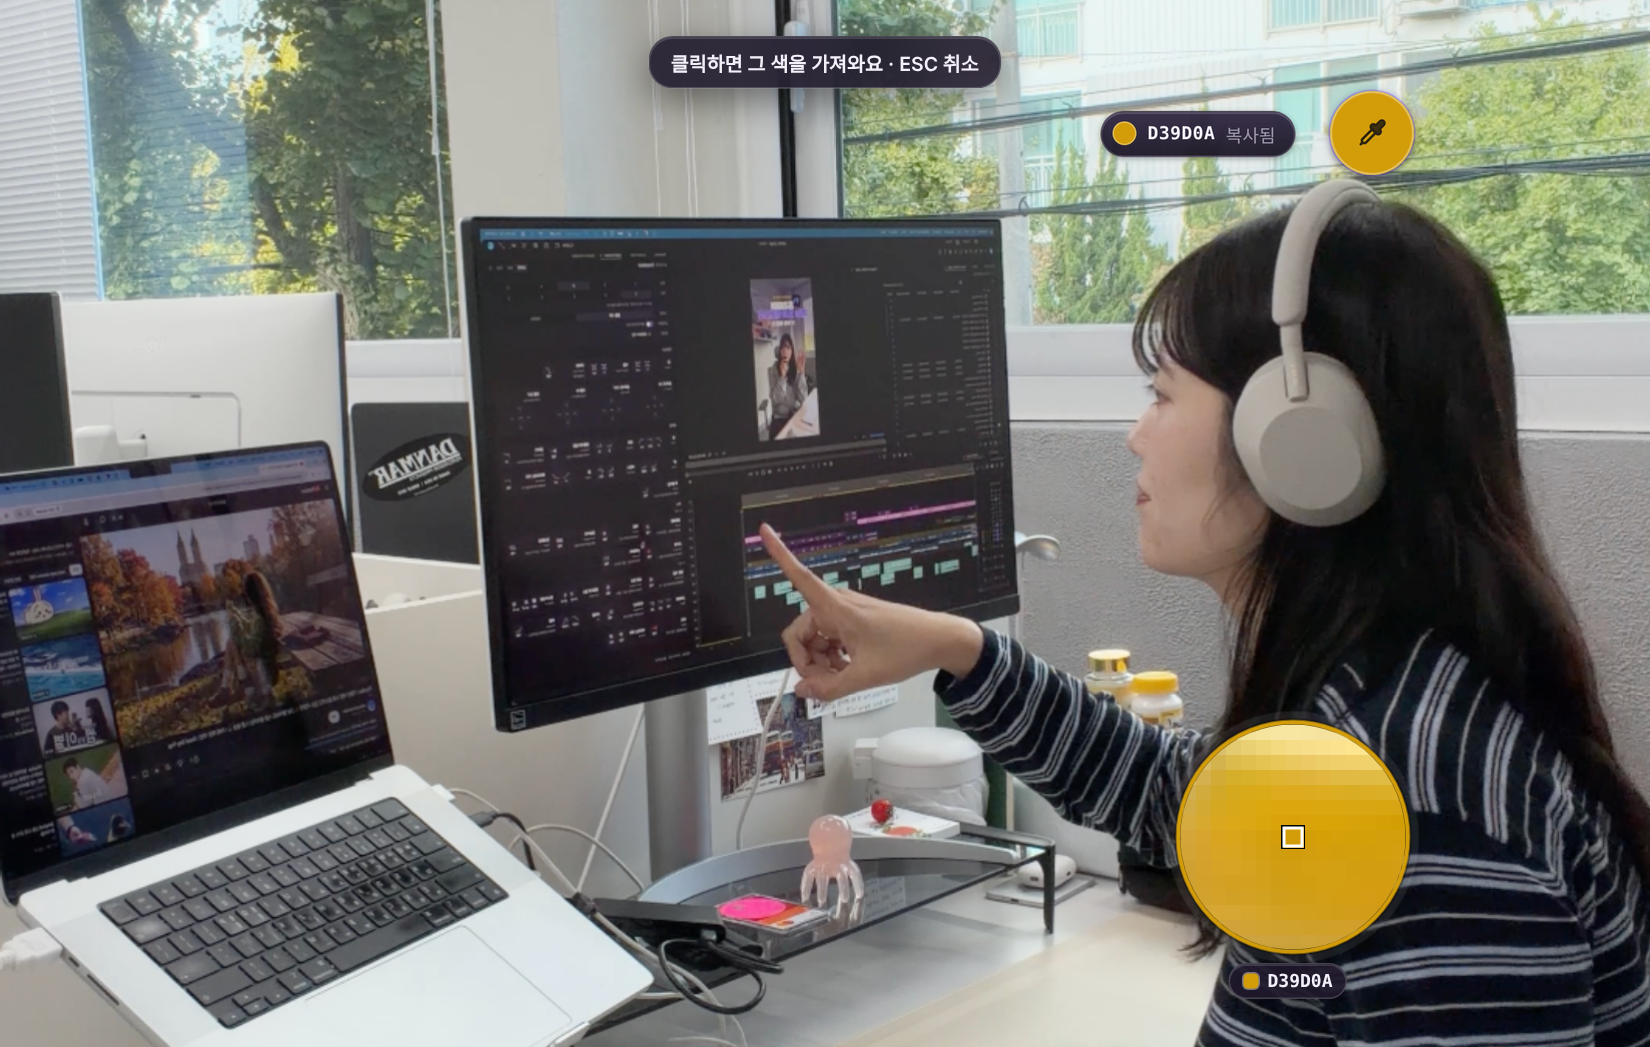
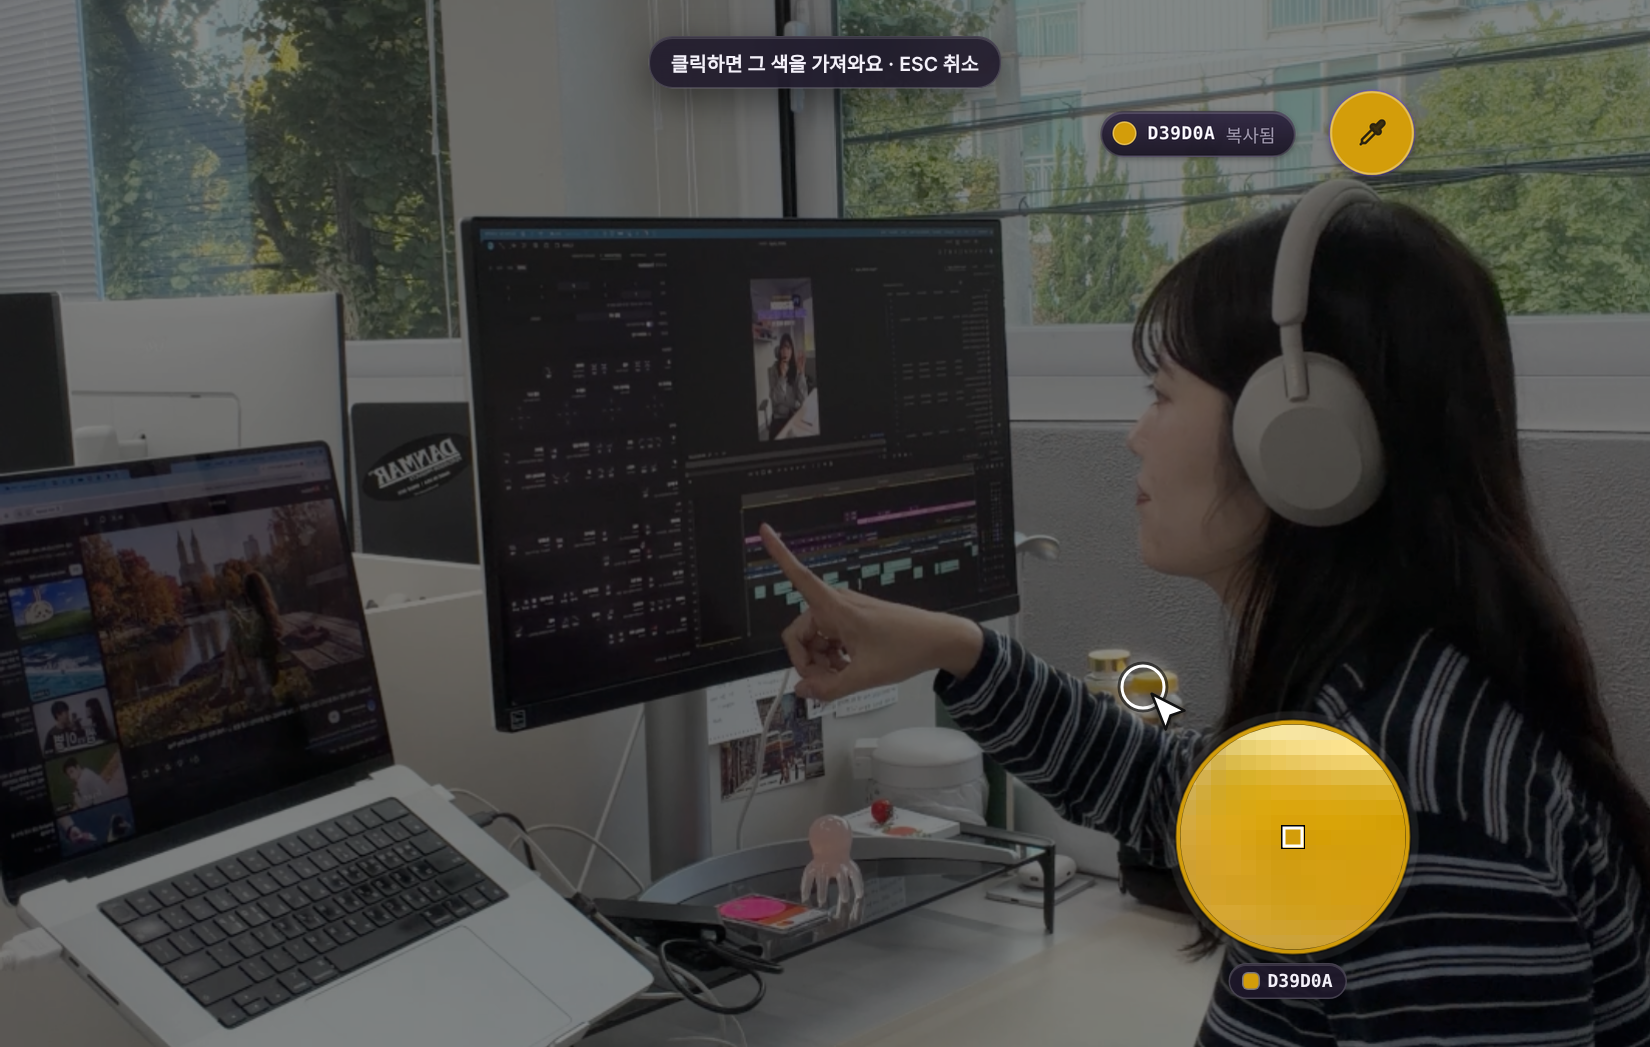
기능 1 예시: 배경 어둡게, 포인터 표시
Claude-Session: https://claude.ai/code/session_01EN3DvmfasgiLr1rD7UWmUP

diff --git a/index.html b/index.html
@@ -199,7 +199,7 @@
     <h2>이런 걸 할 수 있어요</h2>
     <p class="sub2">컴퓨터에 설치하는 위젯이라<br>캡컷 · 파이널컷 · 프리미어 · 일러스트 등<br>어떤 프로그램을 쓰든 같이 쓸 수 있어요.</p>
     <div class="grid4">
-      <div class="feat"><img class="shot" src="img2/feat1.png"><div class="n">기능 1</div><h3>어디서든 색 수집, 자동 복사</h3><p>위젯을 누르거나 단축키를 누르면 확대경이 떠요.<br>원하는 곳을 찍는 순간 컬러값이 복사돼요.</p></div>
+      <div class="feat"><img class="shot" src="img2/feat1.png?v=2"><div class="n">기능 1</div><h3>어디서든 색 수집, 자동 복사</h3><p>위젯을 누르거나 단축키를 누르면 확대경이 떠요.<br>원하는 곳을 찍는 순간 컬러값이 복사돼요.</p></div>
       <div class="feat"><img class="shot c" src="img2/img.png"><div class="n">기능 2</div><h3>이미지·화면에서 색 조합 뽑기</h3><p>화면을 캡처하거나 이미지를 넣으면<br>추천 조합 5색과 많이 쓰인 색 8개를 뽑아줘요.<br>바로 프로젝트에 저장할 수 있어요.</p></div>
       <div class="feat"><img class="shot c" src="img2/f3.png"><div class="n">기능 3</div><h3>0202 기본 컬러 조합</h3><p>예능 자막, 정보·뉴스 그래픽, 브이로그 감성,<br>파스텔, 시네마틱, 레트로·Y2K, 무채색까지<br>바로 쓸 수 있는 조합이 들어 있어요.</p></div>
       <div class="feat"><img class="shot" src="img2/feat4.png"><div class="n">기능 4</div><h3>프로젝트별 관리 · 팀 공유</h3><p>클라이언트·채널별 폴더에 색을 모아두고,<br>컬러칩 이미지나 공유 코드로 팀원에게 넘겨줘요.<br>폴더 이름까지 그대로 가요.</p></div>
@@ -221,7 +221,7 @@
     <h2>사용 방법</h2>
     <p class="sub2">자주 쓰는 것부터 순서대로 모았어요.</p>
     <div class="use">
-      <div class="row"><div class="im "><img src="img2/loupe.png"></div><div><h3>🎯 색 뽑기</h3><ol><li>화면의 동그란 위젯 클릭<br>또는 단축키 <b>⌥⌘C</b> (윈도우 <b>Ctrl+Alt+C</b>)</li><li>확대경이 뜨면 원하는 곳 클릭</li><li>컬러값이 바로 복사돼요 · 취소는 Esc</li></ol></div></div>
+      <div class="row"><div class="im "><img src="img2/loupe.png?v=2"></div><div><h3>🎯 색 뽑기</h3><ol><li>화면의 동그란 위젯 클릭<br>또는 단축키 <b>⌥⌘C</b> (윈도우 <b>Ctrl+Alt+C</b>)</li><li>확대경이 뜨면 원하는 곳 클릭</li><li>컬러값이 바로 복사돼요 · 취소는 Esc</li></ol></div></div>
       <div class="row"><div class="im "><img src="img2/img.png"></div><div><h3>🖼 화면 캡처·이미지로<br>색 조합 뽑기</h3><ol><li><b>화면 영역 캡처</b> → 원하는 영역 드래그</li><li>이미지 파일은 <b>이미지에서 색 추출</b><br>또는 팔레트에 끌어놓기</li><li>추천 조합을 프로젝트에 저장</li></ol></div></div>
       <div class="row"><div class="im "><img src="img2/drag.png"></div><div><h3>✋ 드래그앤드롭으로 저장</h3><ol><li>최근 색을 프로젝트 폴더로 끌어놓기</li><li>폴더 안에서 끌면 순서 변경</li><li><b>⌥(Alt)</b>를 누른 채 끌면 복제</li></ol></div></div>
       <div class="row"><div class="im "><img src="img2/plus.png"></div><div><h3>➕ 지금 색 바로 넣기</h3><ol><li>폴더 맨 끝 점선 <b>＋</b> 클릭</li><li>현재 색이 맨 앞에 추가돼요</li><li>＋를 우클릭하면 색 고르기 창</li></ol></div></div>

diff --git a/preview/index.html b/preview/index.html
@@ -14,5 +14,5 @@ h1{font-size:22px;line-height:1.4;margin-bottom:14px}.pr s{color:#aaa;margin-rig
 <header>공이공이 프로덕션 <span style="font-weight:400;color:#999;font-size:13px">· 상세페이지 미리보기</span></header>
 <div class="top"><img src="../store/thumbnail.png"><div><h1>0202Swatch - 어디서든 색 뽑는 스와치 위젯 (맥/윈도우)</h1><div class="pr"><s>9,900원</s><b>4,900원</b></div><div class="btn">구매하기</div></div></div>
 <div class="tabs"><span>상세정보</span></div>
-<div class="detail"><img src="detail.jpg?v=3"></div>
+<div class="detail"><img src="detail.jpg?v=4"></div>
 </body></html>
